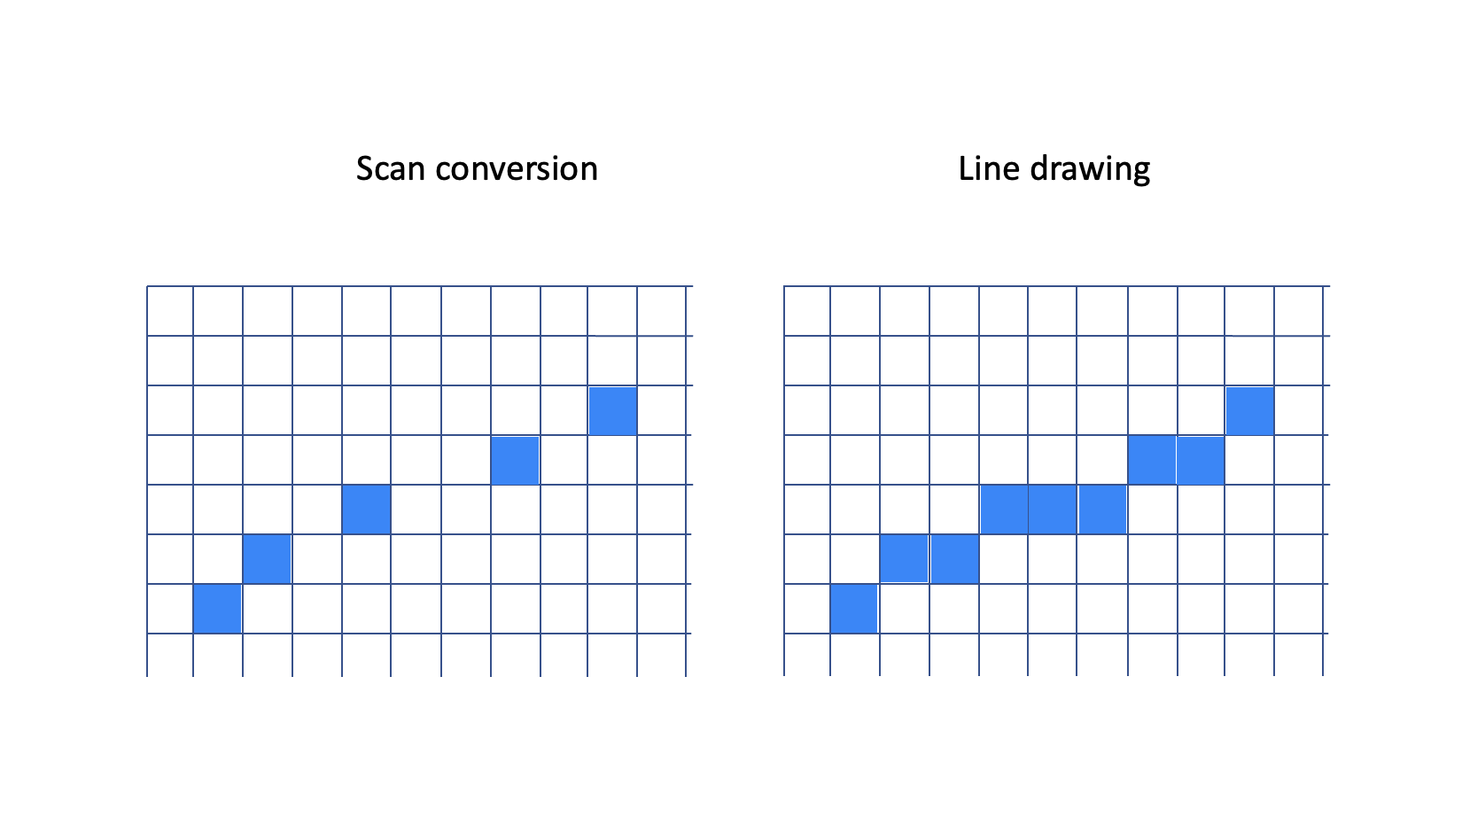
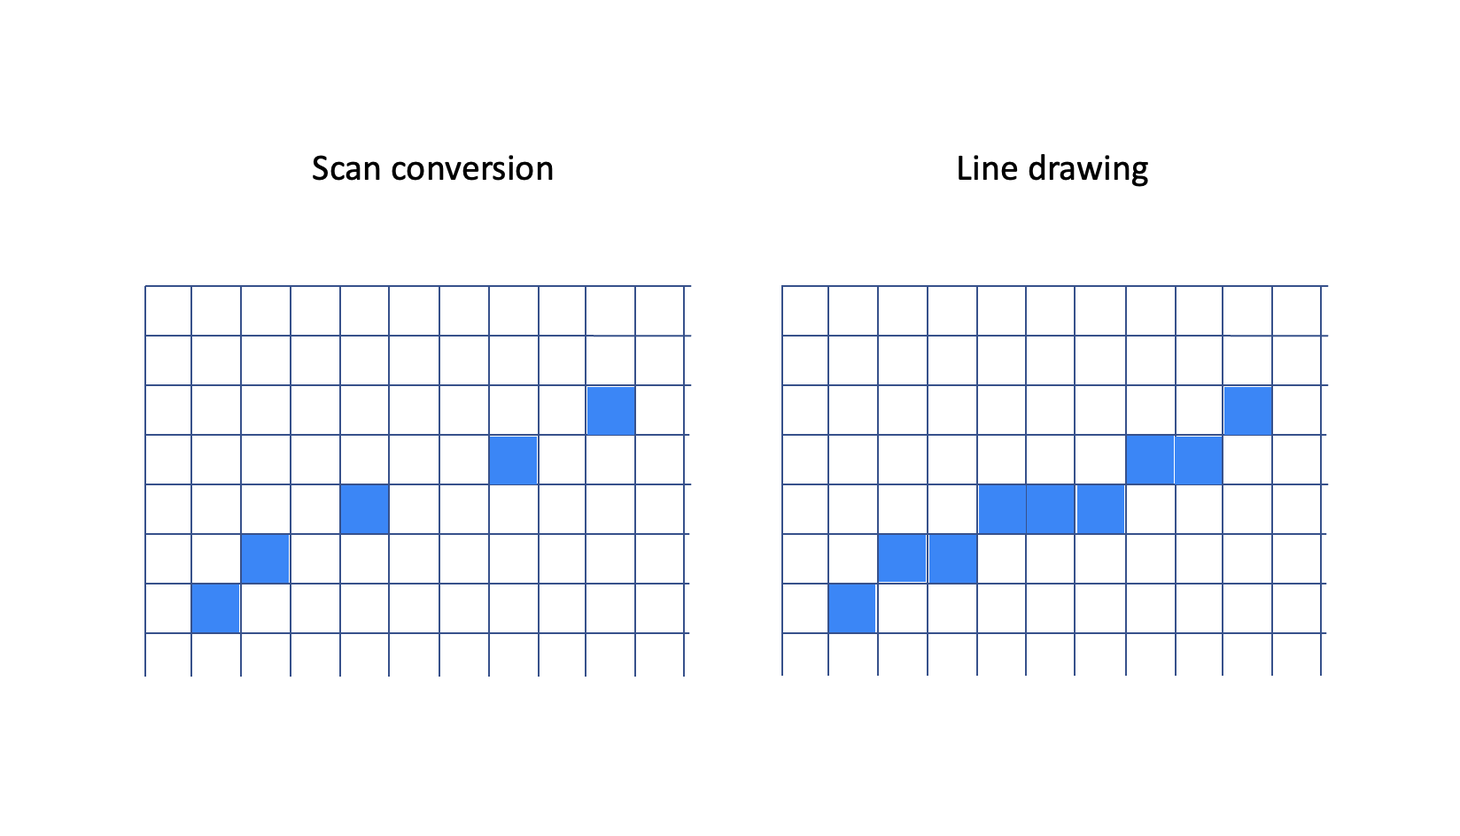
Scanline rasterizer

diff --git a/scanline-rasterizer/2.md b/scanline-rasterizer/2.md
@@ -4,25 +4,25 @@
 
 (This article is part of a [series](./#sections). You can jump to the [previous section](1) or the [next section](3) if you would like to.)
 
-The rasterizer is based on fundamental two operations: Scan converting edges and drawing horizontal lines.
+Our rasterizer is based on two fundamental operations: Scan converting edges and drawing horizontal lines.
 
-Drawing horizontal lines is not too complicated, but the scan conversion has some more complexity to it. In this section we will take a closer look at what we can do to ensure correctness and good performance.
+Drawing horizontal lines is not too complicated, but the scan conversion has some more complexity to it. In this section we will take a closer look at what we can do to ensure correctness and have good performance.
 
 ## Numerical issues
 
 The current scan converter operates on floating point values. It calculates the edge slope as `dx/dy`, and increments the current `x` coordinate with this value as it traverses the edge along the `y` coordinate.
 
-This has two downsides: Performance and precision. Divisions can be slow, and if possible, we would like to avoid them. Admittedly, slow divisions used to be more of an issue before, on older computers. However, precision is still a potential problem for us. Adding long sequences of floating-point numbers will lead to errors - as the numerical precision of the initial division, and then of each addition, is finite. The limited precision will lead to visual artifacts - gaps or overlaps between two triangles that share an edge. See [this section](triangle-rasterizer/7) in the previous article series for more details.
+This has two downsides: Performance and precision. Divisions can be slow - so if possible, we would like to avoid them. Admittedly, slow divisions used to be more of an issue before, on older computers. However, precision still remains a potential problem for us. Adding long sequences of floating-point numbers will lead to errors - as the numerical precision of the initial division, and then of each addition, is finite. This limitation will lead to visual artifacts - gaps or overlaps between two triangles that share an edge. See [this section](../triangle-rasterizer/7) in the previous article series for more details.
 
-We will now change the scan converter to be exact. It will operate on integers only, eliminating the risk of numerical errors. How can we do that? Ie, how can we calculate the edge slope without performing a division? The trick here is to keep the slope value as a fraction, and to never perform the divide. We instead store the numerator and denominator, and apply normal rules for additions of fractions to get the output we need.
+We will now change the scan converter to be exact. It will operate on integers only, to eliminate the risk of numerical errors. How can we do that? Ie, how can we calculate the edge slope without performing a division? The trick here is to keep the slope value as a fraction, ie we never perform the divide. We instead store the slope as a fraction, with an explicit numerator and denominator, and apply the normal rules for additions of fractions when needed.
 
-You may have already heard of an integer-based algorithm for line drawing (Bresenham's), and we could have used that here as well. However, some of the refinements we will do later in this series are much easier to implement when we choose the fraction-based approach.
+You may have already heard of an integer-based algorithm for line drawing (Bresenham's), and we could have used that one here as well. However, some of the refinements we will do later in this series are easier to implement when we choose this fraction-based approach.
 
 ## The solution
 
-Let's see how the integer-based scan converter looks like. In this example, we assume the edge runs downwards and to the right, and that the major axis (the largest dimension) for the edge is along the `y` axis. This means we have to iterate along the `y` axis from start to end (top to bottom), and to find an `x` coordinate for each integer `y`.
+Let's see how the integer-based scan converter looks like. In this example, we assume that the edge runs downwards and to the right, and that the major axis (the largest dimension) for the edge is along the `y` axis. This means we have to iterate along the `y` axis from start to end (top to bottom), and to find an `x` coordinate for each integer `y`.
 
-We start off by calculating the `dx` and `dy` values for the edge - ie the difference in `x` and `y`. The edge slope can be expressed as `dx/dy`, but we choose to not calculate this value itself. We also read out the pixel coordinates of the start point of the edge.
+We start off by calculating the `dx` and `dy` values for the edge - ie the difference in `x` and `y`. The edge slope can be expressed as `dx/dy`, but now we choose to not calculate this value itself. We also read out the pixel coordinates of the start point of the edge.
 
 ```JavaScript
   scan(start, end, buffer) {
@@ -33,7 +33,7 @@ We start off by calculating the `dx` and `dy` values for the edge - ie the diffe
     let y = start[1];
 ```
 
-We now prepare our fraction by introducing a `numerator` variable. The denominator will here be the `dy` variable. We then add the slope (expressed as a fraction, and not a real-value number) to the `x` coordinate as we iterate over the `y` axis of the edge from top to bottom.
+We then prepare our fraction by introducing a `numerator` variable. The denominator we will use will be the `dy` variable. We then add the slope (still expressed as a fraction, and not a real-value number) to the `x` coordinate as we iterate over the `y` axis of the edge, from top to bottom.
 
 ```JavaScript
     let numerator = 0;
@@ -49,17 +49,15 @@ We now prepare our fraction by introducing a `numerator` variable. The denominat
     }
 ```
 
-For each iteration, we add `dx` to the numerator, and check whether the fraction overflows - ie, whether the numerator becomes larger than the denominator. If so, we move one pixel coordinate to the right by increasing `x`, and then we subtract the denominator value from the numerator. This way we keep the fraction a true fraction (having a value of less than 1) - and it expresses the horizontal position inside the current pixel.
+For each iteration, we add the slope value by adding `dx` to the numerator, and then checking whether the fraction overflows - ie, whether the numerator becomes larger than the denominator. If so, we move one pixel coordinate to the right by increasing the `x` variable, and then subtracting the denominator value from the numerator. This way we keep the fraction a true fraction (the value stays less than 1)
 
 That is all there is to it! Handling the remaning cases, where an edge run downwards to the left, or when the major axis (the largest dimension) is along the `x` axis, is not too hard. See the [source code](2/triangle.js) for details - the changes are mostly swapping `dx` with `dy` and changing signs.
 
 # The top left rule
 
-We need to adjust the code where we draw the horizontal lines. If you have read the previous article series on rasterizing, you may remember the "top left rule". (See [section 4](triangle-rasterizer/4) if you want.) Right now the pixels that lie on edges that are shared between two triangles will be drawn twice. We would like to avoid that, as it both is unnecessary work and creates visual artifacts.
+There is one thing more we need to do. We need to adjust how we draw the horizontal lines. If you have read the previous article series on rasterizing, you may remember the "top left rule". (See [section 4](../triangle-rasterizer/4) if you want.) Right now the pixels that lie on edges that are shared between two triangles will be drawn twice. We would like to avoid that, as it both is unnecessary work and creates visual artifacts.
 
-A quick way to avoid drawing pixels twice is to skip drawing the top horizontal line of a triangle, and to also skip the leftmost pixel of each horizontal line. This is not too hard to implement.
-
-The change looks like this:
+A quick way to avoid drawing pixels twice, is to not draw the top horizontal line of a triangle, and to skip the leftmost pixel of each horizontal line. This is not too hard to implement:
 
 ```JavaScript
     // we start at ymin+1 due to "top left" rasterization rule
@@ -80,4 +78,4 @@ The change looks like this:
     }
 ```
 
-And with that, we have our first exact scanline rasterizer up and running! In the [next section](3) we will look at how we can draw the horizontal lines a bit more efficiently. In the mean time, have a look at the [demo app for this section](2/)! Please note that our rasterizer only operates on integer pixel coordinates. This means that the animation is not smooth. We will improve on that in a later section.
+And with that, we have our first exact scanline rasterizer up and running! In the [next section](3) we will look at how we can draw the horizontal lines a bit more efficiently. In the mean time, have a look at the [demo app for this section](2/)! Please note that our rasterizer only draws triangles based on integer coordinates for the vertices. This means that the animation is not smooth, the triangles seem to jump around a bit while they rotate. We will improve on that in a later section.

diff --git a/scanline-rasterizer/1.md b/scanline-rasterizer/1.md
@@ -12,7 +12,7 @@ In this article series, we will focus on triangles only. A triangle can ideally 
 <img src="images/1-rasterization.png" width="75%">
 </p>
 
-We will reuse the HTML canvas setup from the previous article series - and use a low-resolution pixel surface as our drawing area. If you would like a quick refresher on how this is set up, see [section 2](triangle-rasterizer/2) of the previous article series.
+We will reuse the HTML canvas setup from the previous article series - and use a low-resolution pixel surface as our drawing area. If you would like a quick refresher on how this is set up, see [section 2](../triangle-rasterizer/2) of the previous article series.
 
 As before, we also assume that triangle vertices will be provided to us in a counterclockwise order.
 
@@ -30,13 +30,15 @@ So, this rasterizer method consists of calculating the pixel coordinates of the 
 <img src="images/1-scanlines.png" width="75%">
 </p>
 
+In the illustration here, the left part shows the detailed process: The blue pixels are left and right edges of the triangle, and the red outlines show the horizontal lines that need to be drawn. On the right you can see the resulting triangle.
+
 That's it - that is the method: Finding the start and end points of each horizontal line that will be drawn to represent the triangle. And then draw the horizontal lines.
 
 Let's take a look at how this can be done in practice.
 
 ## A first implementation
 
-We use the same triangle setup as [in the previous article](triangle-rasterizer/3). We start with defining a triangle by its vertices and a color:
+We use the same triangle setup as [in the previous article](../triangle-rasterizer/3). We start with defining a triangle by its vertices and a color:
 
 ```JavaScript
 const vertices = [];
@@ -85,7 +87,7 @@ We use the vertex indices stored inside this `Triangle` object to get to the act
 
 ## Scanning edges
 
-We are now at the core of this approach - we need to calculate the start and end points of each horizontal line before we can draw it. This means, we need to find the `x` coordinates for each `y` coordinate as we step along each of the left and right side edges - from top to botton - of the triangle.
+We are now at the core of this approach - we need to calculate the start and end points of each horizontal line before we can draw it. This means, we need to find the `x` coordinates for each `y` coordinate as we step along each of the left and right side edges - from top to botton - of the triangle. Have a look at this illustration again:
 
 <p align="center">
 <img src="images/1-scanlines.png" width="75%">
@@ -172,13 +174,13 @@ Now, let's look at the internals of the `scanEdge(...)` function. But first, let
 - If the start point for an edge is higher up (has a smaller `y` value) than the end point, it has to be a left side edge.
 - If the start point for an edge is lower (has a greater `y` value) than the end point, it has to be a right side edge.
 
-Have look at the illustration below and then this will hopefully make more sense.
+Have look at this illustration and then this will hopefully make more sense.
 
 <p align="center">
 <img src="images/1-logic.png" width="75%">
 </p>
 
-We will need to put the `x` coordinates of the two triangle edges into the correct buffers (holding start `x` and end `x` values, respectively), but using the facts above it we know whether a given edge is a left or right side edge.
+We will need to put the `x` coordinates of the two triangle edges into the correct buffers (holding start `x` and end `x` values, respectively). By using the facts above it we will know whether a given edge is a left or right side edge.
 
 We also need to establish a third fact:
 
@@ -186,7 +188,9 @@ We also need to establish a third fact:
 
 This happens since we fill the triangle by horizontal lines. That means we need to find the `x` coordinates of the edges while we traverse them vertically, one line at a time. However, a purely horizontal edge will have no vertical component.
 
-If an edge is horizontal, we will also know that none of the other edges will be horizontal - or else the triangle has zero area and the determinant check would have kicked in. So, in this case, we know that the other two edges will be scan converted, and that will in turn produce the needed start and end `x` coordinate values for the triangle so we can render it the normal way.
+If an edge is horizontal, we will also know that none of the other edges will be horizontal - or else the triangle would have hade zero area. In that case and the check of whether the determinant is positive would have kicked in and we would have jumped out of the function.
+
+So, in this case, we know that the other two edges will be scan converted, so we will get the needed start and end `x` coordinate values for the entire triangle so it can be drawn normally.
 
 Here is the implementation of the `scanEdge(...)` function:
 
@@ -204,19 +208,17 @@ Here is the implementation of the `scanEdge(...)` function:
     }
 ```
 
-If you have a look at a few scan conversion implementations on the internet you will likely find examples that check whether the endpoints are provided in increasing `y` order, and swap vertices as needed. Or, code that checks for division by zero before calculating the edge slope.
+If you look through some of the scan conversion implementations on the internet you will likely find examples that check whether the endpoints are provided in increasing `y` order, and swap vertices as needed. Or, code that checks for division by zero before calculating the edge slope.
 
-In the code here, we have instead relied on logic inferred from the counterclockwise ordering rule, along with some carefully set up edge scanning rules. The result is a guarantee that we will always iterate over increasing `y` values. And, that we never will end up dividing by zero.
-
-Fewer checks means simpler and faster code - and in a sense, this illustrates a common trait of effective code: By properly handling the cases at a higher abstraction level, we remove the need for detailed (and, at times, redundant) tests in lower level code. By reusing what we know we get closer to a minimal - and thus faster - implementation.
+In the code here, we have instead relied on logic inferred from the counterclockwise ordering rule, along with some carefully set up edge scanning rules, and avoided those tests. Fewer checks means simpler and faster code - and in a sense, this illustrates a common trait of effective code: By properly handling the cases at a higher abstraction level, we remove the need for detailed (and, at times, redundant) tests in lower level code. By reusing what we know (or can infer) we get closer to a minimal - and thus faster - implementation.
 
 ## Drawing horizontal lines
 
-All that is left now, is to draw the horizontal lines. We do this by iterating over the range of `y` coordinates, from top to botton of the triangle - and then draw the pixels from the left edge to the right edge. We get hold of the `x` coordinates by reading them out from the `startBuffer` and `endBuffer` arrays.
+All that is left now, is to draw the horizontal lines. We do this by iterating over the full range of `y` coordinates, from top to botton of the triangle - and then draw the pixels from the left edge to the right edge. We get hold of the `x` coordinates by reading them out from the `startBuffer` and `endBuffer` arrays.
 
-The `imageDataOffset` variable is used to keep track of the address (the offset from zero) in the image buffer where we want to write our pixel values. This variable refers to offsets measured in bytes, while each pixel consists of 4 byte values (R, G, B and alpha/transparency) in sequence. Thus we need to multiply the offsets by 4 here and there, and this is implemented as shifting left 2 places (`<< 2`) for maximum performance.
+The `imageDataOffset` variable is used to keep track of the address (the offset from zero) in the image buffer where we want to write our pixel values. This variable refers to offsets measured in bytes. Each pixel consists of 4 byte values (R, G, B and alpha/transparency) in sequence, so we need to multiply the offsets by 4 here and there. This is implemented by shifting left 2 places (`<< 2`) for maximum performance.
 
-For more background information on how RGB values end up as pixels on screen, see [section 2](triangle-rasterizer/2) in the previous article series.
+For more background information on how the RGB values in this array end up as pixels on screen, see [section 2](../triangle-rasterizer/2) in the previous article series.
 
 ```JavaScript
     const ymin = Math.min(v[0][1], v[1][1], v[2][1]);

diff --git a/scanline-rasterizer/3.md b/scanline-rasterizer/3.md
@@ -4,17 +4,17 @@
 
 (This article is part of a [series](./#sections). You can jump to the [previous section](2) or the [next section](4) if you would like to.)
 
-Our rasterizer is inherently serial. There are no functions that run in parallel. Given our runtime environment, JavaScript in the browser, we have no obvious way to make the code do more per time unit. (Web workers have far too much overhead to be useful here, we requre very little overhead.)
+Our rasterizer is inherently serial. There are no functions that run in parallel. Given our runtime environment, JavaScript in the browser, we have no obvious way to make the code do more per time unit. (Web workers have too much overhead to be useful here.)
 
-Still, we want to make our more effective. We can make use of a little trick: although we cannot make our code run in parallel, we can make the data processing happen in parallel. Or, at least, we can make the code process more data per unit of time.
+Still, we want to make our code more effective. We can use a little trick: Although we cannot make our code run in parallel, we can still make the data processing happen in parallel. Or, at least, we can make our code process more data per unit of time.
 
-This is often referred to as SIMD - single instruction, multiple data. The idea is that in a tight loop that does simple data copying or writing, it is often more effective to work on larger data chunks in each iteration.
+This technique is often referred to as SIMD: Single instruction, multiple data. The idea is that in a tight loop that does some data processing, it can be more effective to let each iteration work on a larger data chunk.
 
-In the current code to draw horizontal lines, we write pixel values to our screen buffer one byte at a time. That means we need to send 4 bytes to the screen buffer to update one pixel on the screen. However, writing 4 bytes (one pixel) at a time is just as fast as writing 1 byte. This means we can make the loop run faster if we set up the code to update one pixel - 4 bytes - at a time.
+In the code for drawing horizontal lines, we currently write pixel values to our screen buffer one byte at a time. That means we need to send 4 bytes to the screen buffer to update one pixel. However, writing 4 bytes to this buffer is just as fast as writing 1 byte. This means we can make the loop run quite a bit faster if we set up the code inside the loop so that we draw one pixel - 4 bytes - per iteration.
 
 ## The implementation
 
-We do this by wrapping the raw image data buffer (an array buffer created by the Canvas API) in a typed array (here: a Uint32Array). This creates a view into the raw image buffer for us - that enables us to write 32 bits (4 bytes, ie a full pixel) at a time.
+We do this by wrapping the raw image data buffer (an array buffer created by the Canvas API) in a typed array (here: a Uint32Array). This creates a 32-bit view into the raw image buffer for us - which enables us to write 4 bytes, a full pixel, at a time.
 
 The code looks like this:
 
@@ -23,7 +23,7 @@ The code looks like this:
   screenBuffer = new Uint32Array(arrayBuffer);
 ```
 
-When we want to write pixels on screen, we first make the 4 byte values into a single 32-bit integer. This only needs to be done once per triangle.
+When we want to write pixels on screen, we first make a 32-bit integer out of the 4 byte values. This only needs to be done once per triangle.
 
 ```JavaScript
     // bake the pixel color as a int32 RGBA value (little-endian)
@@ -33,7 +33,7 @@ When we want to write pixels on screen, we first make the 4 byte values into a s
     finalColor |= 255 << 24;
 ```
 
-Then we can let the innermost pixel-drawing loop, where performance really matters, do just one write per iteration:
+Then we let the innermost pixel-drawing loop, where performance really matters, do just one write to the pixel buffer per iteration:
 
 ```JavaScript
     while (x <= endx) {
@@ -44,6 +44,6 @@ Then we can let the innermost pixel-drawing loop, where performance really matte
 
 And with that, we now draw our horizontal lines more effectively.
 
-In the next section, we will take a deep dive into scan conversion again. We will (finally) start improving the visual quality of the animation - we will add support for subpixel precision so the triangles rotate smoothly!
+In the next section, we will take a deep dive into scan conversion again. We will (finally) start improving the visual quality of the animation - we will add support for subpixel precision so the triangles rotate smoothly.
 
 If you want, you can have a look at the [demo app for this section](3/) - or, you can just jump directly to the [next section](4).

diff --git a/scanline-rasterizer/README.md b/scanline-rasterizer/README.md
@@ -8,13 +8,15 @@
 
 In an earlier article series, I have showed how to write a [fast and precise triangle rasterizer](/triangle-rasterizer). The algorithm described there was published by Juan Piñeda back in 1988. Today, it is still the preferred method for triangle rasterization - as it fits very well with the highly parallel hardware architectures of GPUs.
 
-This time I would like to go through a different rasterization method, based on scanline conversion. The method is older than Piñeda's - the first published version came out in 1967, in the paper ["Half-tone perspective drawings by computer"](https://dl.acm.org/doi/10.1145/1465611.1465619) by Wylie et al. At that time (and until the mid 90's) 3D graphics was done on the CPU, and this meant that methods that were efficient on single-threaded hardware were the preferred choice.
+This time I would like to go through a different rasterization method, based on scanline conversion. This method is older than Piñeda's. The first published version came out in 1967, in the paper ["Half-tone perspective drawings by computer"](https://dl.acm.org/doi/pdf/10.1145/1465611.1465619) by Wylie et al. At that time (and until the mid 90's) 3D graphics was done on the CPU, and this meant that graphics code was optimized for single-threaded hardware.
 
-Although scanline rasterization method is no longer the preferred choice, it is still useful and relevant whenever your runtime environment is optimized for serial execution - which is the case here: Our rasterizer will be written in JavaScript and run in the browser.
+Although the concepts will be explained in detail, it will be an advantage if you either have read the [previous article series](/triangle-rasterizer), or have some experience from writing graphics code.
+
+The scanline rasterization method that we will go through here is not used that much anymore, but it is still useful and relevant whenever your runtime environment is well suited for serial execution. And that is the case here: We will write our code in JavaScript and run it in the browser. Multithreaded code in the browser (via web workers) has too much overhead to be useful in this context.
+
+This article series is structured as follows: First, you will get to know the basic principles behind the scanline conversion method - while we make a first, simple implementation of it. We then add various refinements to this implementation - and in the end we have a rather nice implementation. After that, we sum up and compate the two approaches.
 
 Please note: The contents here is published under a Creative Commons [BY-NC 4.0](https://creativecommons.org/licenses/by-nc/4.0/) license. In short, this means you are free to adapt and share the material as you want, as long as you don't make money by doing so, and as long as you give proper credit to the author.
-
-This article series is structured as follows: First, you will get to know the basic principles behind the scanline conversion method - while we make a first, simple implementation of it. We then add various refinements to this implementation - and end up with a nice implementation. After that, we sum up and compate the two approaces.
 
 As in the previous article series, the focus here will be on correctness and visual quality. We optimize for performance whenever possible.
 
@@ -22,7 +24,7 @@ As in the previous article series, the focus here will be on correctness and vis
 
 1. [An overview and a first implementation](1)
 2. [Living on the edge](2)
-3. [Faster horizontal lines](3) => top left rule, clipping
+3. [Faster horizontal lines](3)
 4. [How to be smooth](4)
 5. [Use the math, Luke](5)
 6. [Epilogue](7)
